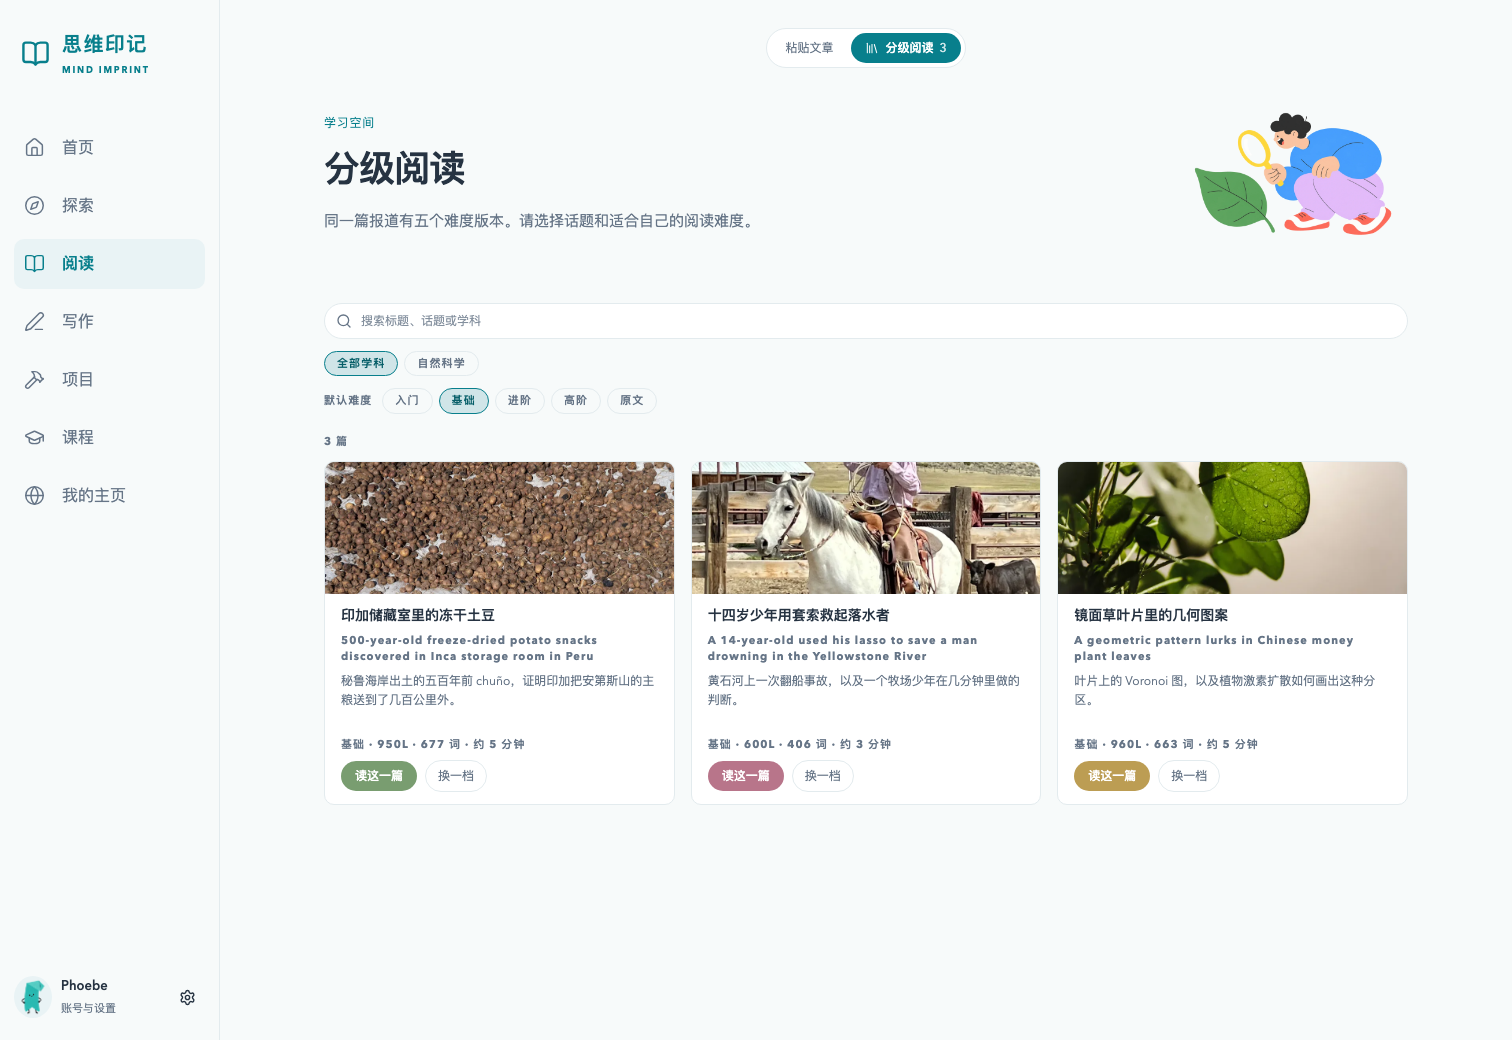
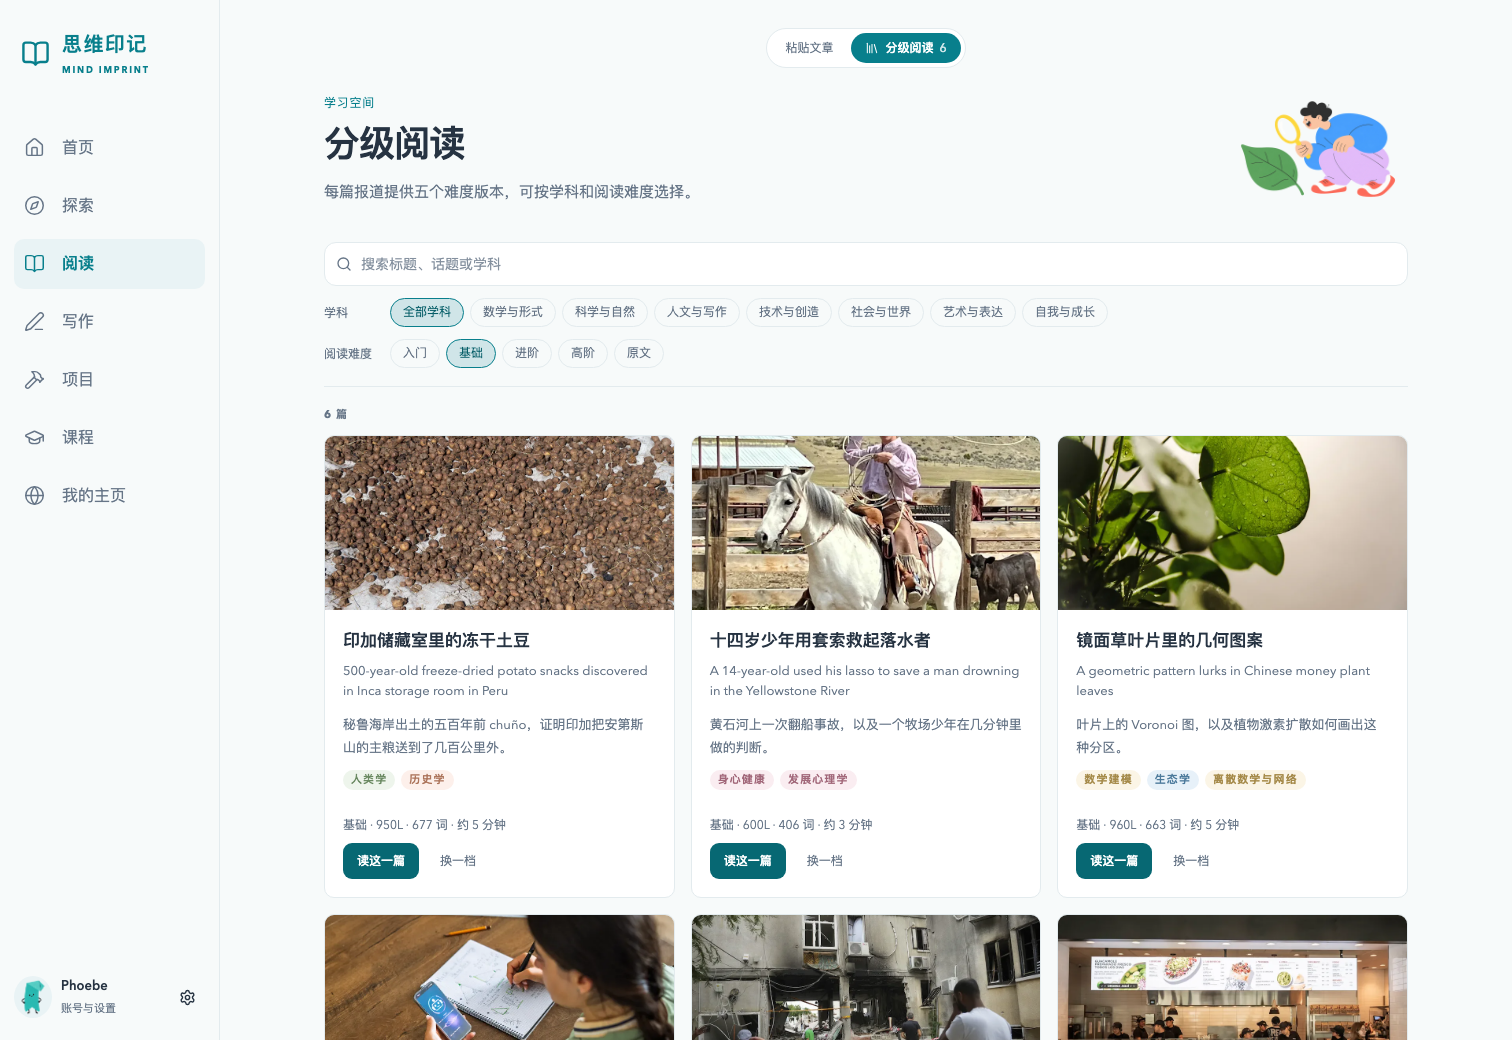
style(lite): refine reading library hierarchy and responsive layout

diff --git a/apps/lite-web/src/readings/LibraryCard.tsx b/apps/lite-web/src/readings/LibraryCard.tsx
@@ -49,7 +49,7 @@ export function LibraryCard({ article, defaultTier, why, busy, onStart, onResume
   // 现在它是一次明确的点击，不再是一次误触。
   const [tier, setTier] = useState(defaultTier);
   const [picking, setPicking] = useState(false);
-  const hue = fieldById(article.field as FieldId).hue;
+  const hue = "var(--mk-accent-500)";
   const level = article.levels.find((l) => l.tier === tier) ?? article.levels[1] ?? article.levels[0];
   // 她手上还开着的那一档（没有就是 0）。
   const openTier = (article.readingId && !article.finished ? article.readTier : 0) ?? 0;
@@ -57,18 +57,18 @@ export function LibraryCard({ article, defaultTier, why, busy, onStart, onResume
 
   return (
     <article
-      className="flex flex-col overflow-hidden rounded-mk-md border border-mk-border bg-mk-surface shadow-mk-xs transition-shadow duration-[120ms] ease-mk hover:shadow-mk-sm"
+      className="reading-library-card flex flex-col overflow-hidden rounded-mk-md border border-mk-border bg-mk-surface shadow-mk-xs transition-shadow duration-[120ms] ease-mk hover:shadow-mk-sm"
     >
       {article.coverUrl && (
         <img
           src={article.coverUrl}
           alt={article.zhTitle}
           loading="lazy"
-          className="h-[132px] w-full object-cover"
+          className="reading-library-cover w-full object-cover"
         />
       )}
 
-      <div className="flex flex-1 flex-col gap-2 px-4 pb-3 pt-3">
+      <div className="reading-library-content flex flex-1 flex-col gap-2">
         <div className="flex items-start justify-between gap-2">
           <h3 className="text-mk-body font-semibold leading-snug text-mk-ink">{article.zhTitle}</h3>
           {article.finished && (
@@ -78,8 +78,8 @@ export function LibraryCard({ article, defaultTier, why, busy, onStart, onResume
             </span>
           )}
         </div>
-        <p className="text-mk-label leading-snug text-mk-muted">{article.title}</p>
-        <p className="text-mk-small leading-relaxed text-mk-secondary">{article.reason}</p>
+        <p className="reading-library-english text-mk-muted">{article.title}</p>
+        <p className="reading-library-description text-mk-secondary">{article.reason}</p>
 
         <div className="mt-0.5 flex flex-wrap gap-1.5">
           {article.tags.map((t) => (
@@ -100,7 +100,7 @@ export function LibraryCard({ article, defaultTier, why, busy, onStart, onResume
           <p className="text-mk-label text-mk-muted">因为你关心{why.join("、")}</p>
         )}
 
-        <div className="mt-auto pt-2">
+        <div className="reading-library-footer mt-auto">
           {picking ? (
             <fieldset className="flex flex-col gap-2">
               <legend className="pb-1.5 text-mk-label text-mk-muted">选择难度</legend>
@@ -128,7 +128,7 @@ export function LibraryCard({ article, defaultTier, why, busy, onStart, onResume
                 }
                 onStart(article.slug, tier);
               }}
-              className="rounded-mk-full px-3.5 py-1.5 text-mk-small font-medium text-white transition-opacity duration-[120ms] ease-mk disabled:opacity-50"
+              className="reading-library-start rounded-mk-full px-3.5 py-1.5 text-mk-small font-medium text-white transition-opacity duration-[120ms] ease-mk disabled:opacity-50"
               style={{ background: `color-mix(in srgb, ${hue} 82%, black)` }}
             >
               {/* 🚨 不叫「开始阅读」：粘贴框那个提交按钮已经叫这个名字了，
@@ -138,7 +138,7 @@ export function LibraryCard({ article, defaultTier, why, busy, onStart, onResume
             <button
               type="button"
               onClick={() => setPicking((v) => !v)}
-              className="rounded-mk-full border border-mk-border px-3 py-1.5 text-mk-small text-mk-secondary transition-colors duration-[120ms] ease-mk hover:border-mk-accent-200 hover:text-mk-accent-700"
+              className="reading-library-change rounded-mk-full border border-mk-border px-3 py-1.5 text-mk-small text-mk-secondary transition-colors duration-[120ms] ease-mk hover:border-mk-accent-200 hover:text-mk-accent-700"
             >
               {picking ? "收起难度" : "换一档"}
             </button>

diff --git a/apps/lite-web/src/learning/landing.css b/apps/lite-web/src/learning/landing.css
@@ -200,3 +200,125 @@
     margin-left: auto;
   }
 }
+
+/* Reading catalogue: quieter controls and editorial article hierarchy. */
+.learning-library .learning-landing-header {
+  min-height: 166px;
+  padding: 12px 0 18px;
+}
+.learning-library .learning-landing-header > img {
+  width: 180px;
+  height: 132px;
+}
+.learning-library .learning-landing-header h1 {
+  margin: 8px 0 10px;
+}
+.reading-library-filters {
+  padding: 8px 0 18px;
+  border-bottom: 1px solid var(--learning-line);
+}
+.reading-library-filters input {
+  min-height: 44px;
+  border-radius: 12px;
+  font-size: 14px;
+}
+.reading-filter-label {
+  min-width: 60px;
+  font-size: 12px;
+  color: var(--learning-muted);
+}
+.reading-library-filters button,
+.reading-library-footer .text-mk-label {
+  font-size: 12px;
+  font-weight: 400;
+  letter-spacing: normal;
+  line-height: 1.6;
+}
+.reading-library-card {
+  border-radius: 14px;
+}
+.reading-library-cover {
+  height: 174px;
+}
+.reading-library-content {
+  padding: 18px;
+}
+.reading-library-content h3 {
+  font-size: 17px;
+  line-height: 1.5;
+  font-weight: 600;
+}
+.reading-library-english {
+  font-size: 13px;
+  line-height: 1.55;
+  font-weight: 400;
+  letter-spacing: normal;
+}
+.reading-library-description {
+  margin-top: 4px;
+  font-size: 13px;
+  line-height: 1.8;
+}
+.reading-library-footer {
+  padding-top: 18px;
+}
+.learning-landing .reading-library-start {
+  min-height: 36px;
+  border-radius: 9px;
+}
+.learning-landing .reading-library-change {
+  min-height: 36px;
+  border-color: transparent;
+  border-radius: 9px;
+}
+@media (max-width: 700px) {
+  .learning-library .learning-landing-header {
+    min-height: 156px;
+    gap: 8px;
+  }
+  .learning-library .learning-landing-header > img {
+    width: 76px;
+    height: 100px;
+  }
+  .reading-library-cover {
+    height: 164px;
+  }
+  .reading-library-content {
+    padding: 16px;
+  }
+}
+
+@media (max-width: 700px) {
+  .reading-library-filters > div {
+    column-gap: 5px;
+  }
+  .reading-library-filters > div:nth-of-type(2) .reading-filter-label {
+    flex-basis: 100%;
+    margin-bottom: 2px;
+  }
+  .reading-library-filters > div:nth-of-type(2) button {
+    flex: 1;
+    padding-inline: 7px;
+  }
+}
+
+.learning-library .reading-library-filters input {
+  background: var(--learning-surface);
+  border-color: var(--learning-line);
+  color: var(--learning-ink);
+}
+:root[data-theme="dark"] .reading-library-filters button {
+  border-color: var(--learning-line) !important;
+  color: var(--learning-muted) !important;
+}
+:root[data-theme="dark"] .reading-library-filters button[aria-pressed="true"] {
+  border-color: var(--mk-accent-700) !important;
+  color: var(--mk-accent-700) !important;
+}
+:root[data-theme="dark"] .reading-library-content span[style],
+:root[data-theme="dark"] .reading-library-footer button[aria-pressed="true"] {
+  color: var(--learning-ink) !important;
+}
+.learning-landing .reading-library-change {
+  color: var(--learning-muted);
+}

diff --git a/apps/lite-web/src/readings/ReadingLibraryPage.tsx b/apps/lite-web/src/readings/ReadingLibraryPage.tsx
@@ -82,15 +82,15 @@ export function ReadingLibraryPage() {
   }
 
   return (
-    <div className="learning-landing mk-branch-hues min-h-full">
+    <div className="learning-landing learning-library mk-branch-hues min-h-full">
       <div className="learning-landing-measure learning-landing-wide mx-auto w-full">
         <div className="flex justify-center">
           <ReadingsTabs active="library" libraryCount={shelf?.articles.length} />
         </div>
 
-        <LandingHeader kind="reading" title="分级阅读" description="同一篇报道有五个难度版本。请选择话题和适合自己的阅读难度。" />
+        <LandingHeader kind="reading" title="分级阅读" description="每篇报道提供五个难度版本，可按学科和阅读难度选择。" />
 
-        <div className="mt-5 flex flex-col gap-3">
+        <div className="reading-library-filters flex flex-col gap-3">
           <label className="relative block">
             <span className="sr-only">搜索文章</span>
             <Search
@@ -108,6 +108,7 @@ export function ReadingLibraryPage() {
           </label>
 
           <div className="flex flex-wrap items-center gap-1.5">
+            <span className="reading-filter-label">学科</span>
             <FilterChip label="全部学科" active={field === ""} onPick={() => setField("")} />
             {(shelf?.fields ?? []).map((f) => (
               <FilterChip
@@ -121,7 +122,7 @@ export function ReadingLibraryPage() {
           </div>
 
           <div className="flex flex-wrap items-center gap-1.5">
-            <span className="pr-1 text-mk-label text-mk-muted">默认难度</span>
+            <span className="reading-filter-label">阅读难度</span>
             {TIER_NAMES.map((name, i) => (
               <FilterChip key={name} label={name} active={tier === i + 1} onPick={() => setTier(i + 1)} />
             ))}

diff --git a/docs/2026-09-14-lite-entry-visual.md b/docs/2026-09-14-lite-entry-visual.md
@@ -32,3 +32,10 @@
 - 上轮截图使用了空 `coverUrl` 的预览数据，遗漏了文章照片；生产组件的封面渲染未被移除。本次改用内置阅读库前三篇文章及其原有图片，重新生成阅读入口和分级阅读库截图。
 - 浏览器确认两个页面的文章图片加载成功（`complete` 且 `naturalWidth > 0`），桌面与手机截图已复查；设置页切换靛蓝后主题状态更新，侧栏不再有配色按钮。浏览器无页面异常，四个入口无手机横向溢出。
 - 类型检查通过。数据请求仍为预览夹具，图片为现有 OSS 阅读素材；未验证生产账号会话或远程偏好写入，未提交签名地址或密钥。
+
+### 阅读库排版细化
+
+- 缩短阅读库页头，保留官网风格插画；统一搜索与筛选的间距，难度命名为「阅读难度」。手机五档按钮保持同一排。
+- 文章封面增高，中文标题增大，英文标题恢复正常字距和常规字重，简介与阅读信息分层排列。
+- 阅读按钮统一主题色，切换难度为轻量次要操作；学科色保留在标签。同步改善深色搜索框及标签对比度。
+- 使用内置库六篇文章、真实学科标签和七类筛选复查桌面、手机、深色截图。图片加载、搜索、难度切换及原有入口交互检查通过，浏览器无异常。检查使用预览数据，不等于生产会话验证。
